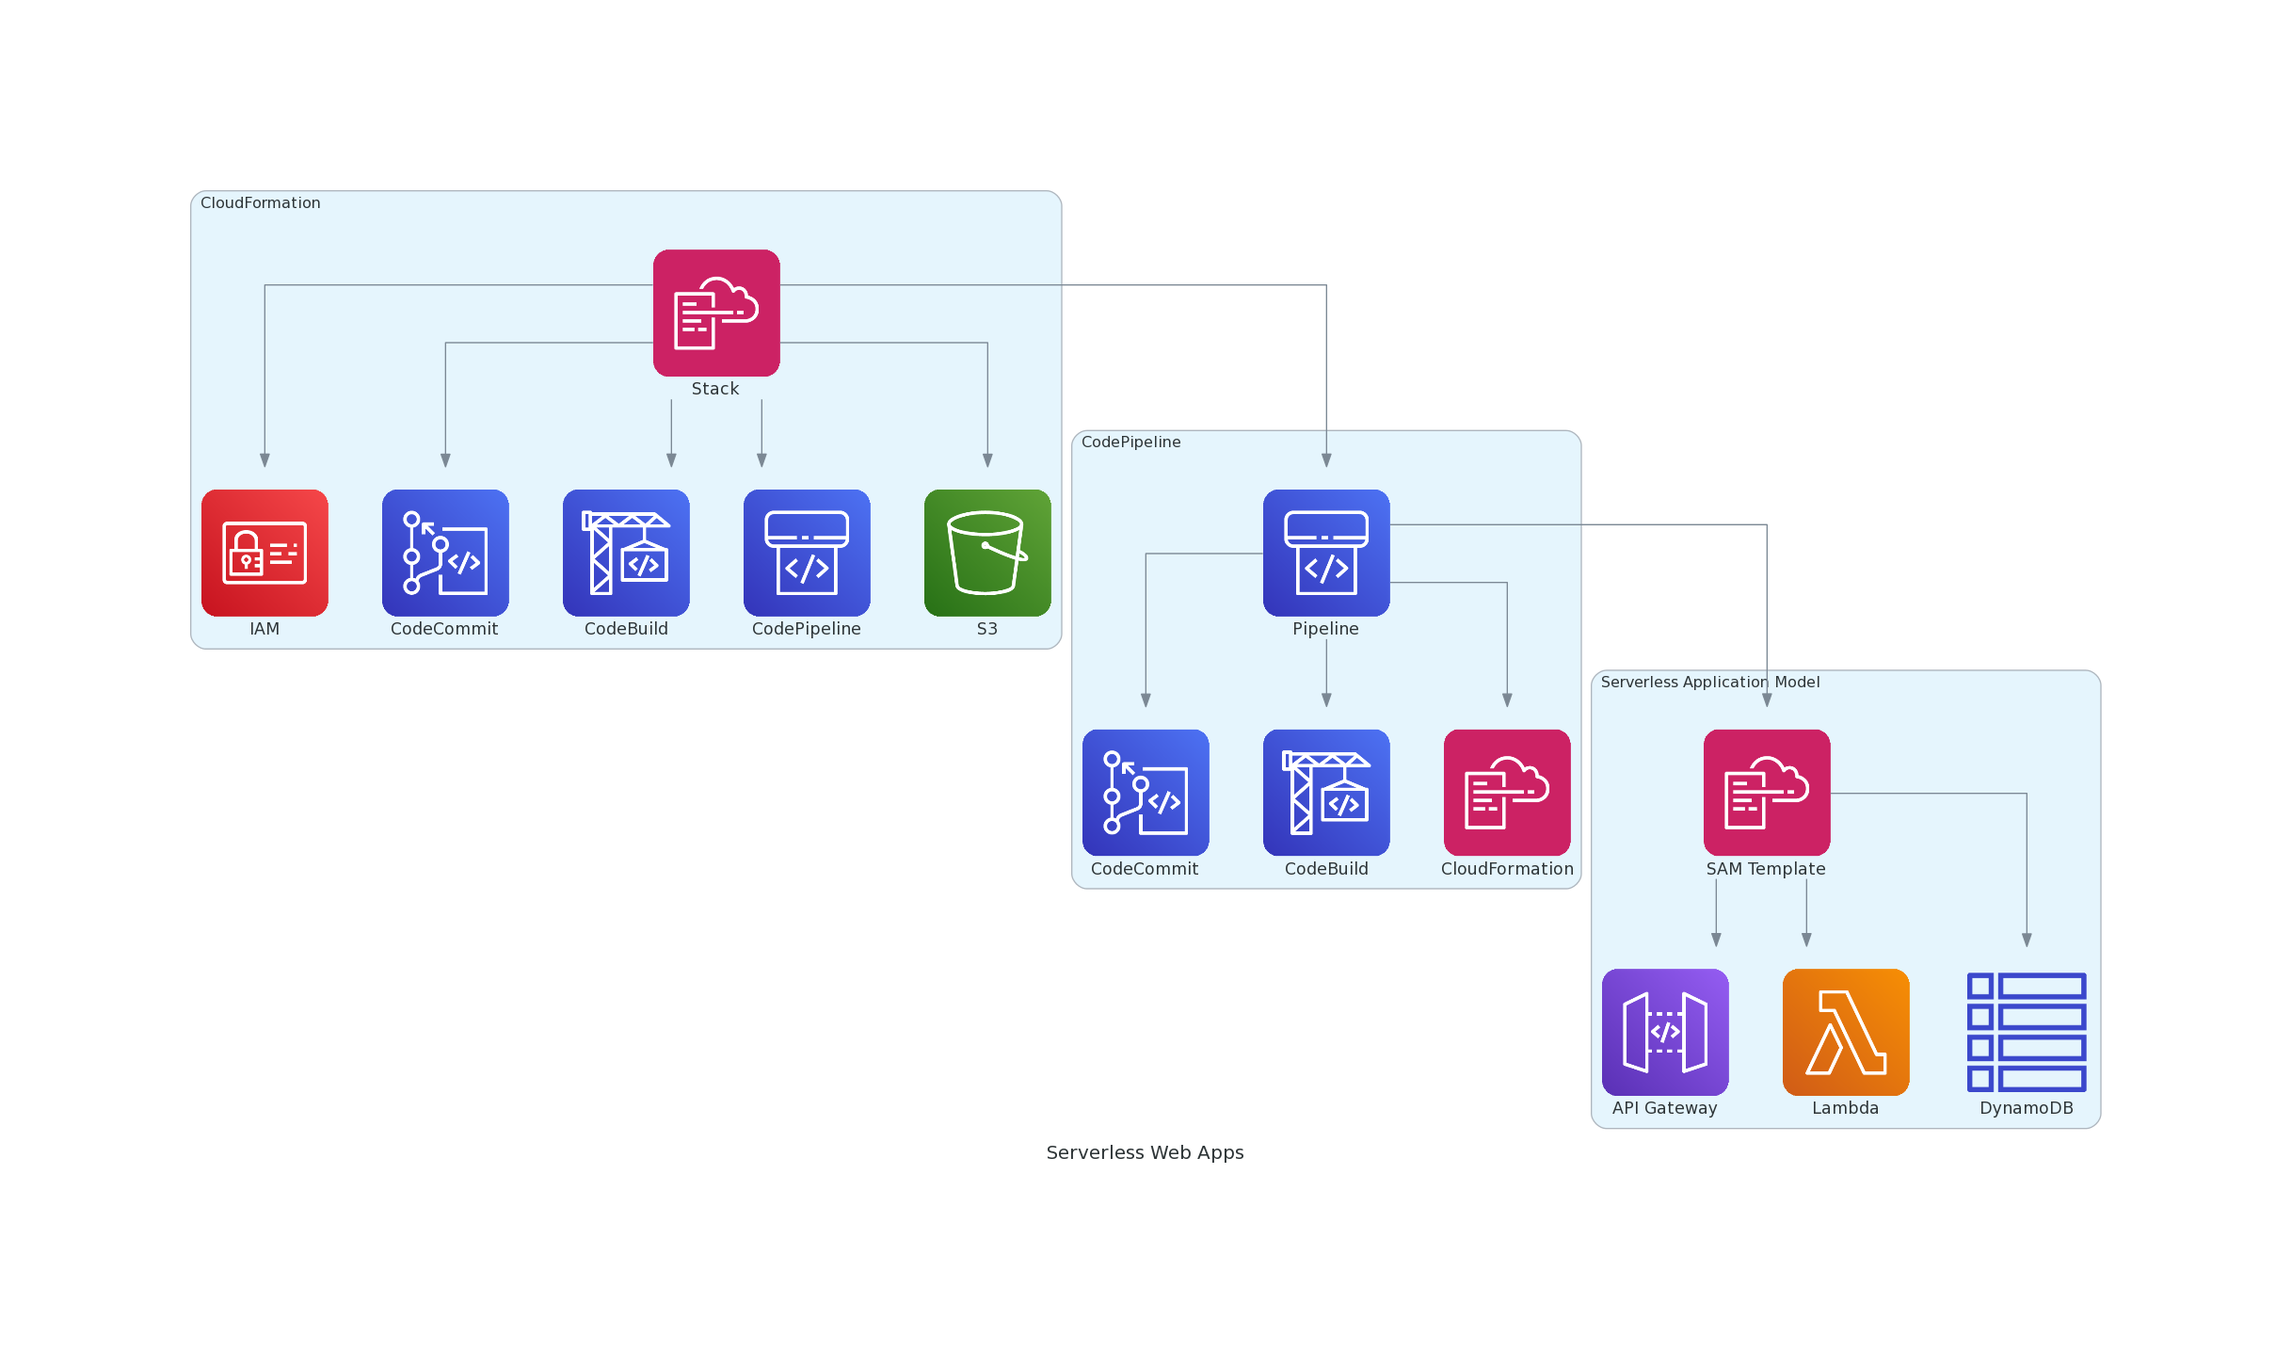
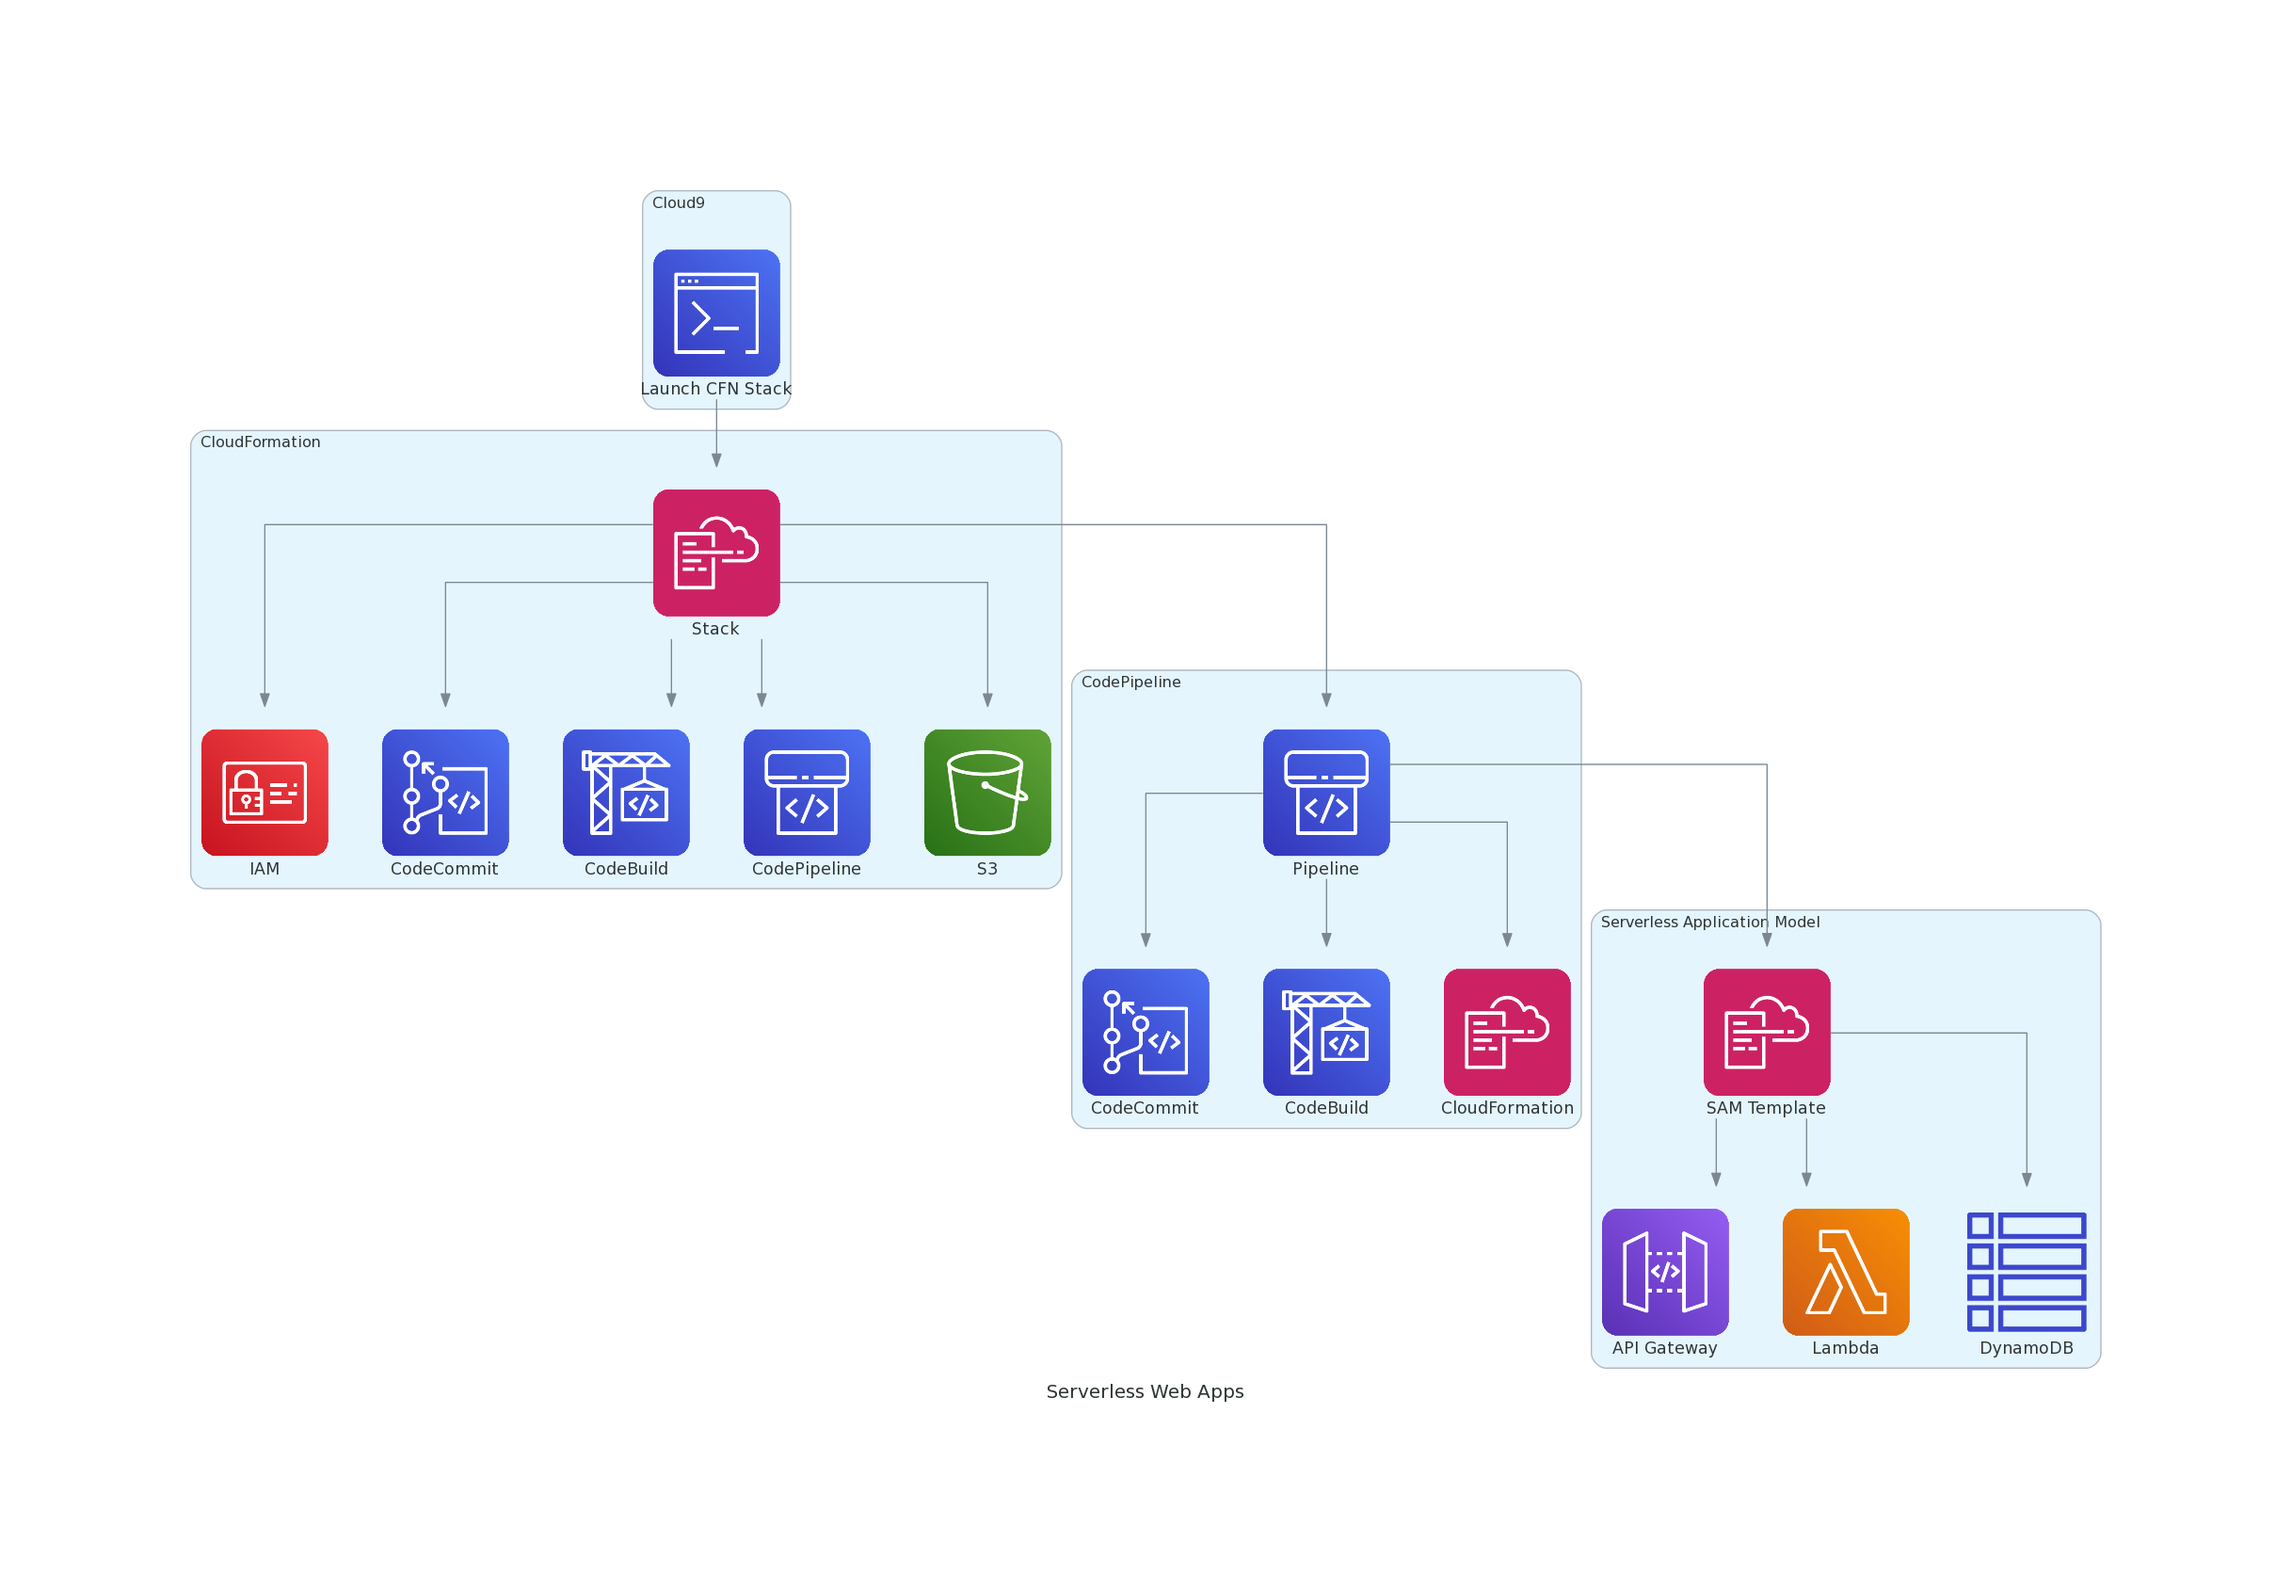
add CLI and Cloud9

Changed region(s): [[0.0624, 0.092, 0.9363, 0.8585], [0.4682, 0.8279, 0.5306, 0.8892]]

diff --git a/webapp/diagrams-app.py b/webapp/diagrams-app.py
@@ -14,7 +14,11 @@ from diagrams.aws.devtools import CommandLineInterface
 
 with Diagram("Serverless Web Apps", show=False, direction="TB"):
     
-
+    
+    
+    with Cluster("Cloud9"):
+        cli = CommandLineInterface("Launch CFN Stack")
+    
     with Cluster("CloudFormation"):
         cloudformation = Cloudformation("Stack")
         cloudformation >> IdentityAndAccessManagementIam("IAM")
@@ -22,6 +26,7 @@ with Diagram("Serverless Web Apps", show=False, direction="TB"):
         cloudformation >> Codebuild("CodeBuild")
         cloudformation >> Codepipeline("CodePipeline")
         cloudformation >> S3("S3")
+        cli >>cloudformation
 
     with Cluster("CodePipeline"):
         codepipeline = Codepipeline("Pipeline")
